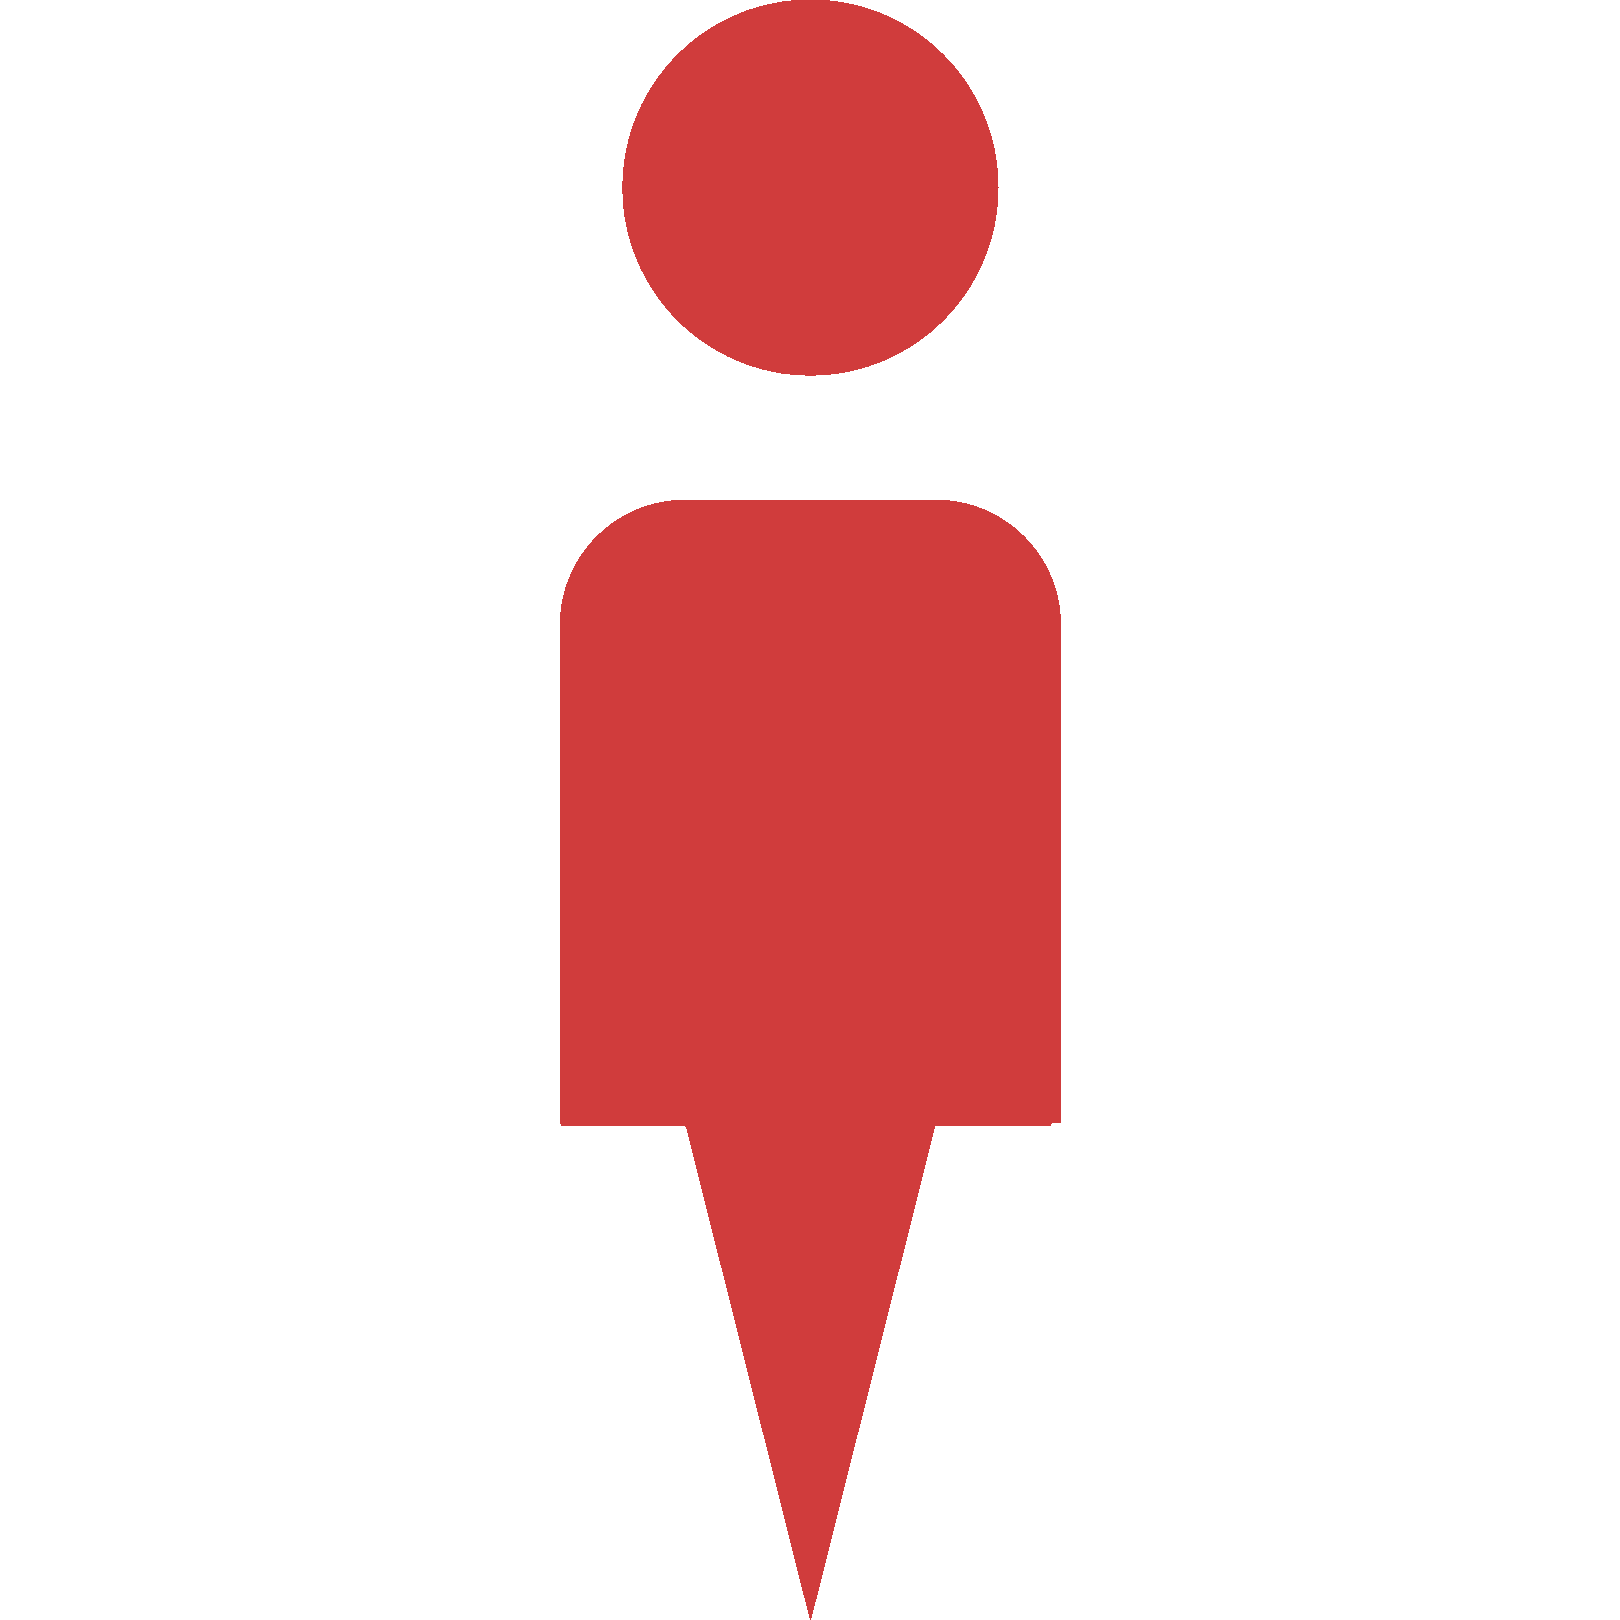
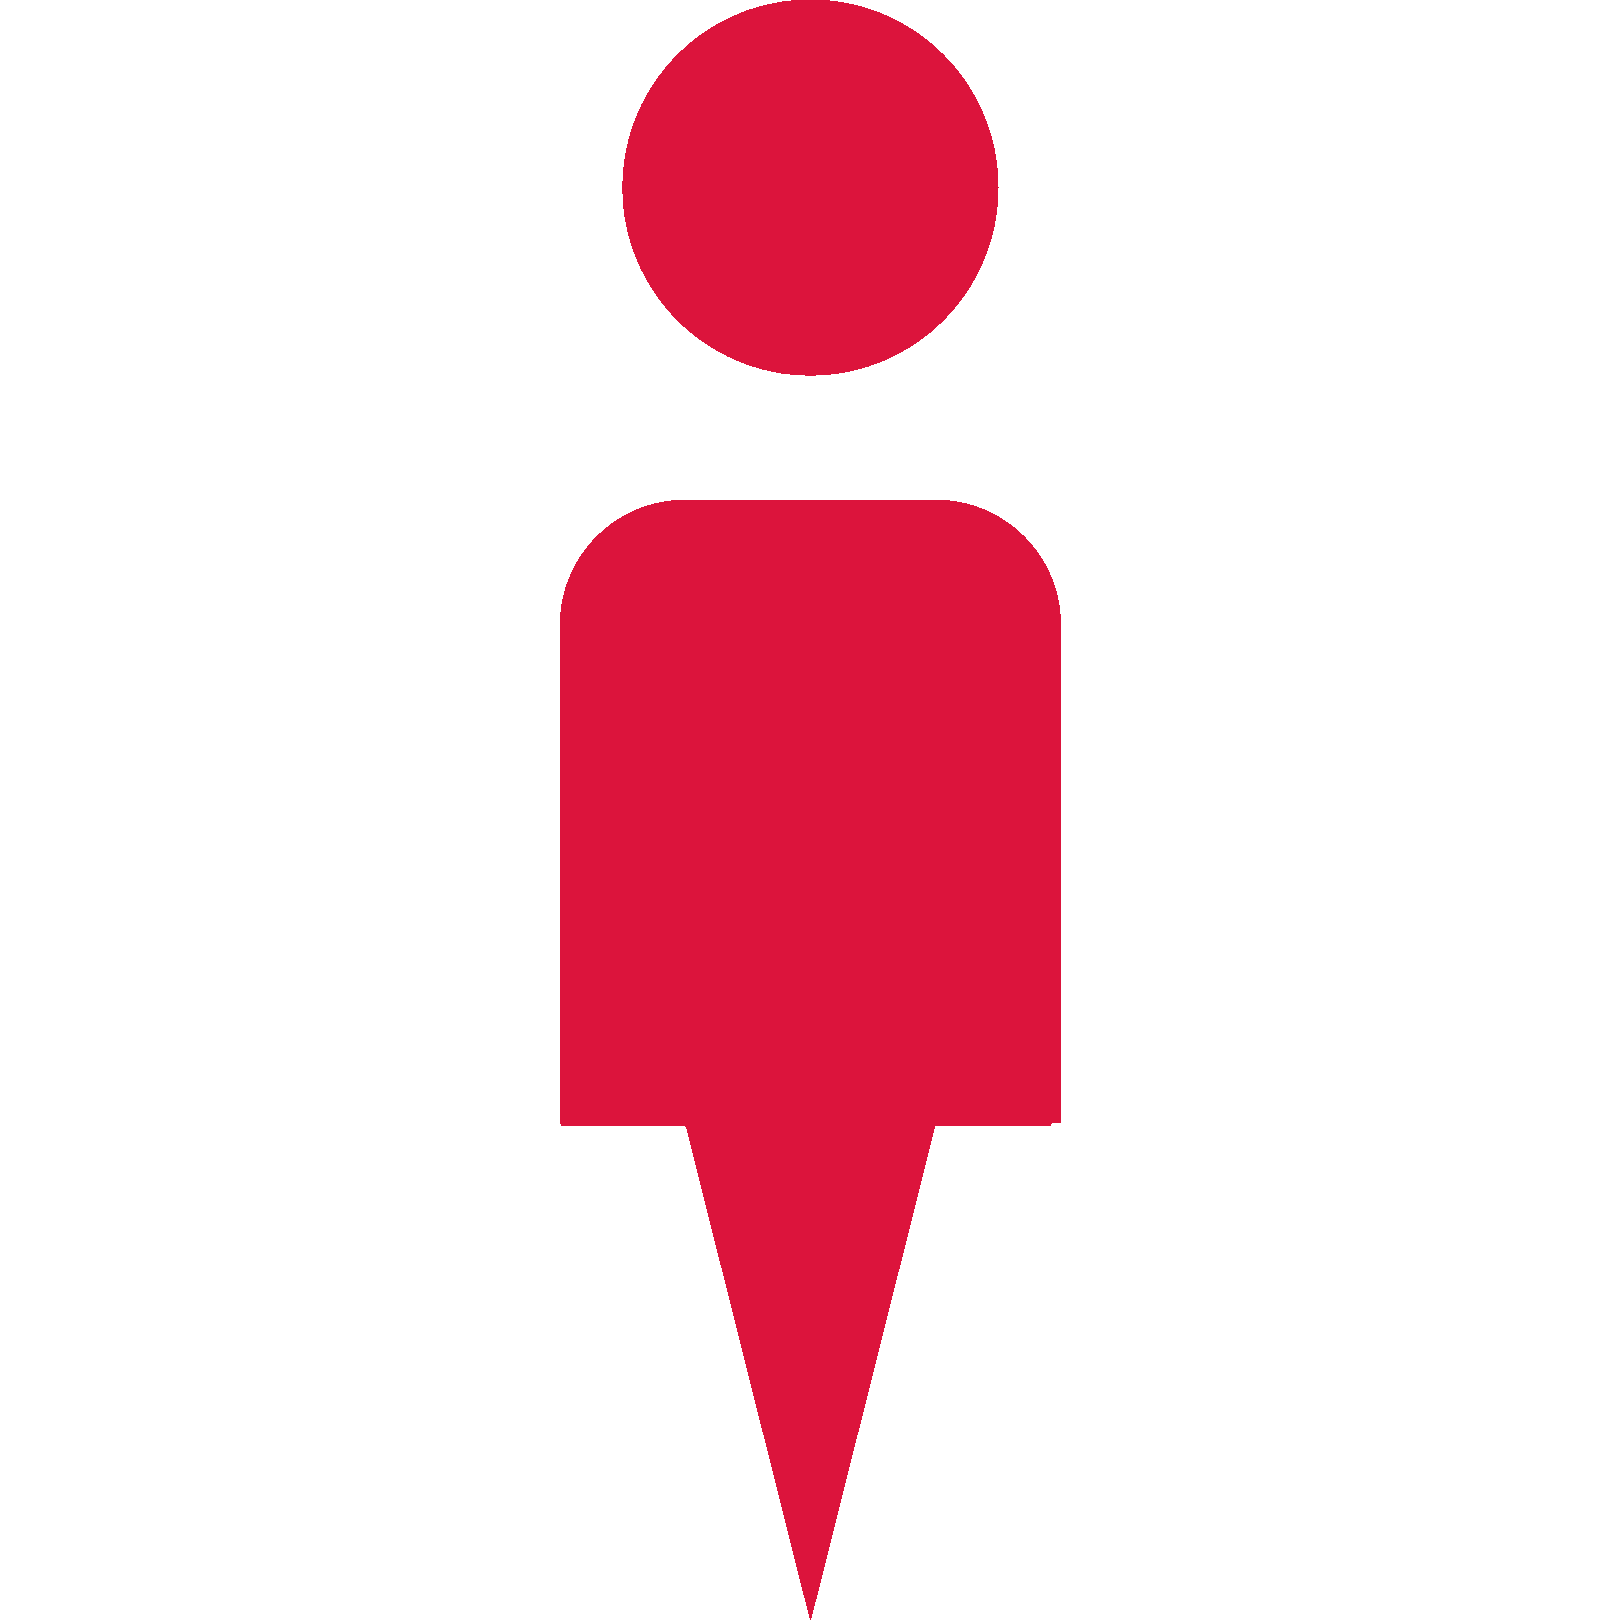
XML implemented to show proper passengers or vehicles, page formatted

Changed region(s): [[0.3395, 0.3086, 0.679, 1.0], [0.3704, 0.0, 0.6173, 0.2469]]

diff --git a/notuber/index.html b/notuber/index.html
@@ -2,17 +2,98 @@
 <html>
 <head>
 <meta charset="utf-8" />
+<meta name="viewport" content="width=device-width, initial-scale=1, maximum-scale=1, user-scalable=0"/>
 <title>The Black Car Service</title>
 <link rel="stylesheet" href="style.css" type="text/css" />
+<link href="https://fonts.googleapis.com/css?family=Dancing+Script|Raleway" rel="stylesheet" />
 </head>
 
 <body>
+  <div id="header">
+    <div id="header-text">
+      <h1>The Black Car Service</h1>
+      <h4>Get where you're going in style</h4>
+    </div>
+  </div>
   <div id="map"></div>
   <script>
     /* round function source: http://www.jacklmoore.com/notes/rounding-in-javascript */
     function round(value, decimals) {
       return Number(Math.round(value+'e'+decimals)+'e-'+decimals);
     }
+    
+    function placeMarkers(map, icons, self, users) {
+      var infowindow = new google.maps.InfoWindow();
+
+      if (users.vehicles) {
+        self.type = "passenger";
+      } else if (users.passengers) {
+        self.type = "vehicle";
+      }
+
+      function addMarker(type, user) {
+        position = new google.maps.LatLng(user.lat, user.lng);
+        var marker = new google.maps.Marker({
+          position: position,
+          icon: icons[type],
+          map: map
+        });
+
+        if (position.lat() == self.position.lat() && position.lng() == self.position.lng()) {
+          marker.addListener('click', function() {
+            infowindow.setContent('<div id="infowindow">'+
+                                  '<h3>'+user.username+'</h3></div>');
+            infowindow.open(map, marker);
+          });
+          infowindow.setContent('<div id="infowindow">'+
+                                '<h3>'+user.username+'</h3></div>');
+          infowindow.open(map, marker);
+        }
+        else {
+          var distance = round(google.maps.geometry.spherical.computeDistanceBetween(position, self.position) * 0.000621371, 2);
+
+          marker.addListener('click', function() {
+            infowindow.setContent('<div id="infowindow">'+
+                                  '<h3>'+user.username+
+                                  ' ('+distance+' mi)</h3></div>');
+            infowindow.open(map, marker);
+          });
+        }
+      }
+
+      addMarker(self.type, self);
+      for (var i in users.passengers) {
+        addMarker('passenger', users.passengers[i]);
+      }
+
+      for (var i in users.vehicles) {
+        addMarker('vehicle', users.vehicles[i]);
+      }
+
+      map.setCenter(self.position);
+      map.setZoom(15);
+    }
+
+    function makeRequest(map, icons, self, placeMarkers) {
+      var request = new XMLHttpRequest();
+
+      request.open("POST", "https://defense-in-derpth.herokuapp.com/submit", true);
+      request.setRequestHeader("Content-type", "application/x-www-form-urlencoded");
+
+      request.onreadystatechange = function() {
+        if (request.readyState == 4 && request.status == 200) {
+          users = JSON.parse(request.responseText);
+          placeMarkers(map, icons, self, users);
+        }
+        else if (request.readyState == 4 && request.status != 200) {
+          alert("Error: XML request went wrong.");
+        }
+      };
+      request.send("username="+self.username+
+                   "&lat="+self.position.lat()+
+                   "&lng="+self.position.lng());
+    }
+    
     function initMap() {
       var usa = new google.maps.LatLng(37.0902, -95.7129);
       var map = new google.maps.Map(document.getElementById('map'), {
@@ -27,58 +108,24 @@
           origin: new google.maps.Point(0, 0),
           anchor: new google.maps.Point(25, 50)
         },
-        driver: {
+        vehicle: {
           url: "black_car.png",
           scaledSize: new google.maps.Size(50, 20),
           origin: new google.maps.Point(0, 0),
-          anchor: new google.maps.Point(25, 20) 
+          anchor: new google.maps.Point(25, 20)
         }
       };
-      
+            
       if (navigator.geolocation) {
         navigator.geolocation.getCurrentPosition(function(position) {
-          var selfPos = new google.maps.LatLng(position.coords.latitude, position.coords.longitude);
+          var self = {
+            username: 'bG3XpClP',
+            lat: position.coords.latitude,
+            lng: position.coords.longitude,
+            position: new google.maps.LatLng(position.coords.latitude, position.coords.longitude)
+          };
           
-          var infowindow = new google.maps.InfoWindow();
-
-          function addMarker(user) {
-            var marker = new google.maps.Marker({
-              position: user.position,
-              icon: icons[user.type],
-              map: map
-            });
-            var distance = round(google.maps.geometry.spherical.computeDistanceBetween(marker.position, selfPos) * 0.000621371, 2);
-            if (distance == 0) {
-              marker.addListener('click', function() {
-                infowindow.setContent('<div id="infowindow"><p><b>Username: </b>'+user.name+ '</p>');
-                infowindow.open(map, marker);
-              });
-            } else {
-              marker.addListener('click', function() {
-                infowindow.setContent('<div id="infowindow"><p><b>Username: </b>'+user.name+ '</p><p><b>Distance: </b>'+distance+' mi</p>');
-                infowindow.open(map, marker);
-              });
-            }
-          }
-
-          var users = [
-            {
-              name: 'bG3XpClP',
-              position: selfPos,
-              type: 'passenger'
-            }, {
-              name: 'Elizabeth',
-              position: new google.maps.LatLng(42.4075, -71.1190),
-              type: 'driver'
-            }
-          ];
-
-          for (var i = 0, user; user = users[i]; i++) {
-            addMarker(user);
-          }
-
-          map.setCenter(selfPos);
-          map.setZoom(15);
+          makeRequest(map, icons, self, placeMarkers);
         }, function () {
           alert('Error: Geolocation failed.');
         });

diff --git a/notuber/style.css b/notuber/style.css
@@ -4,8 +4,42 @@ html, body {
   height: 100%;
   margin: 0;
   padding: 0;
+  font-family: "Raleway";
+}
+
+#header {
+  height: 10%;
+  display: flex;
+  justify-content: center;
+  align-items: center;
+}
+
+#header, h1 {
+  text-align: center;
+  background-color: crimson;
+  margin: 0 auto;
+  color: white;
+}
+
+#header h4 {
+  text-align: center;
+  background-color: crimson;
+  margin: 0 auto;
+  color: white;
+}
+
+h1 {
+  font-family: "Dancing Script";
+}
+
+#infowindow {
+  text-align: center;
+}
+
+h3 {
+  color: #DC143C;
 }
 
 #map {
-  height: 100%;
+  height: 90%;
 }
